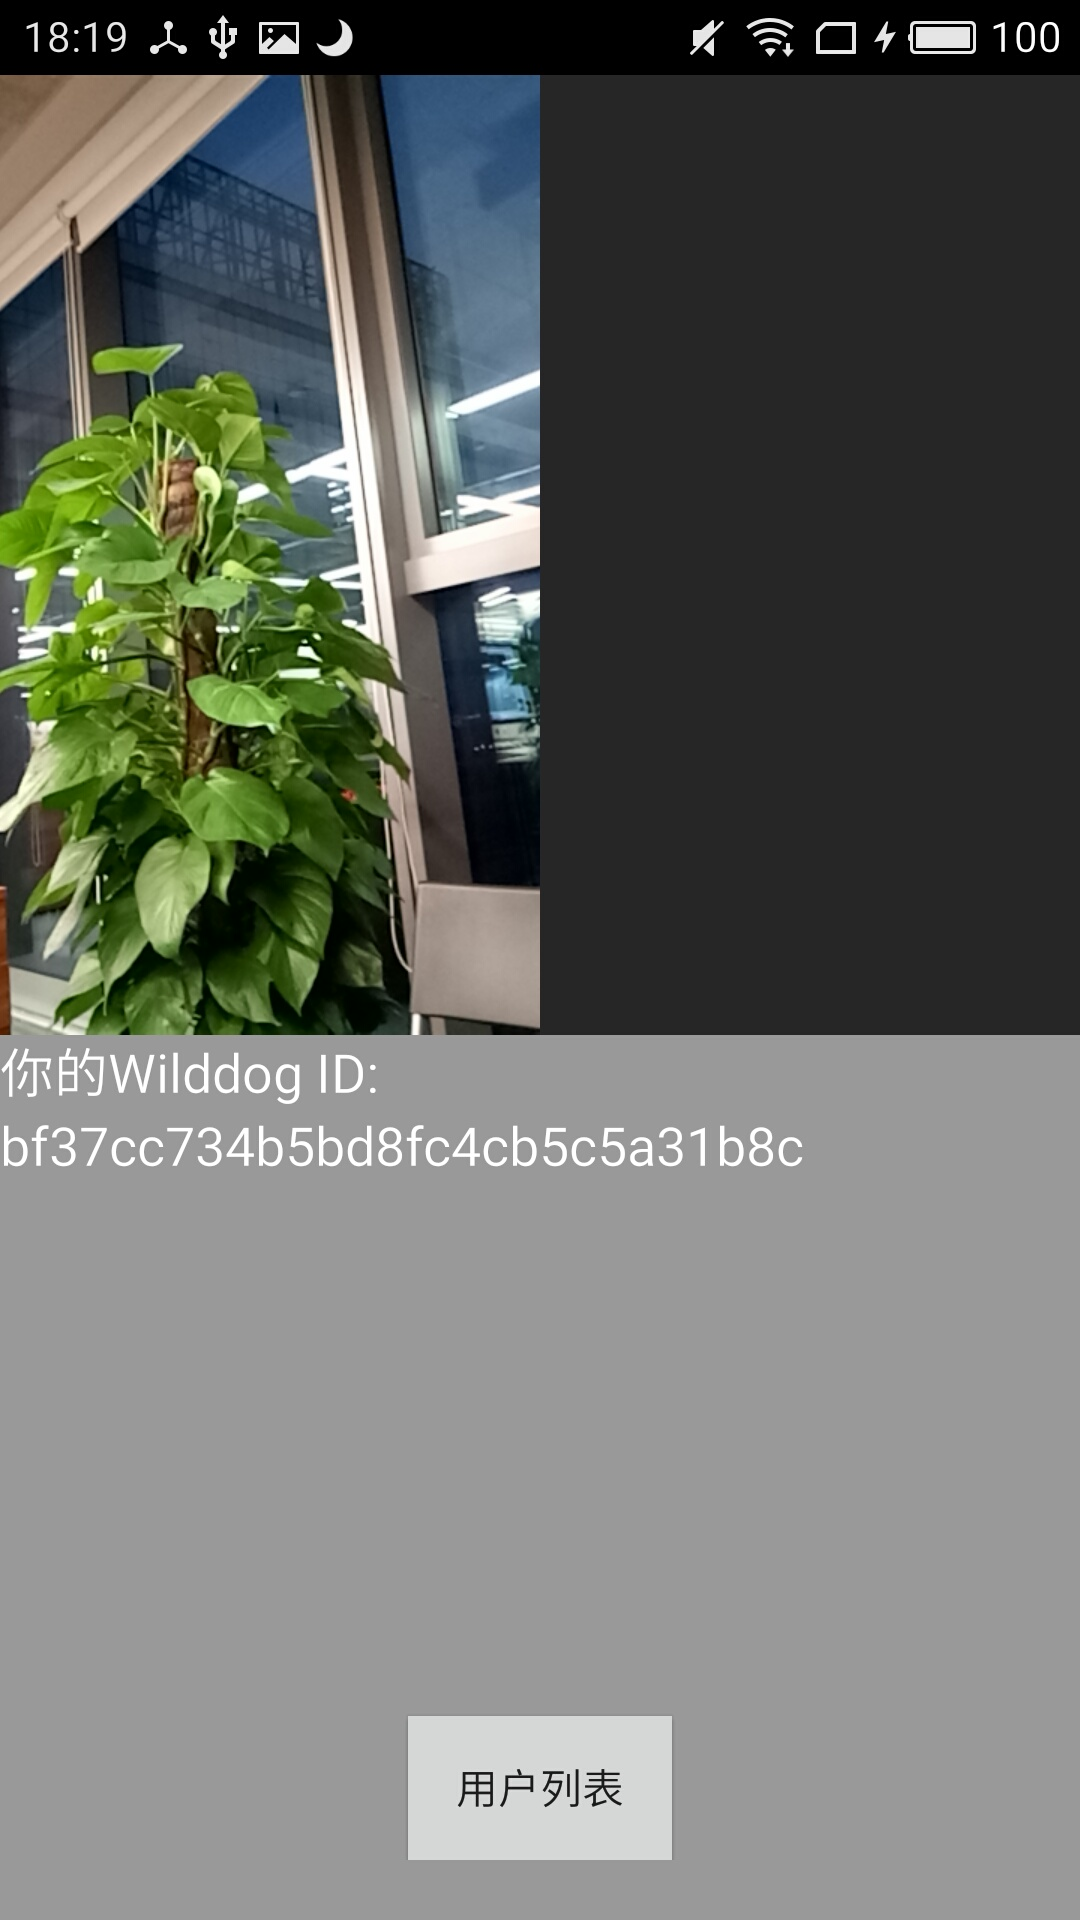
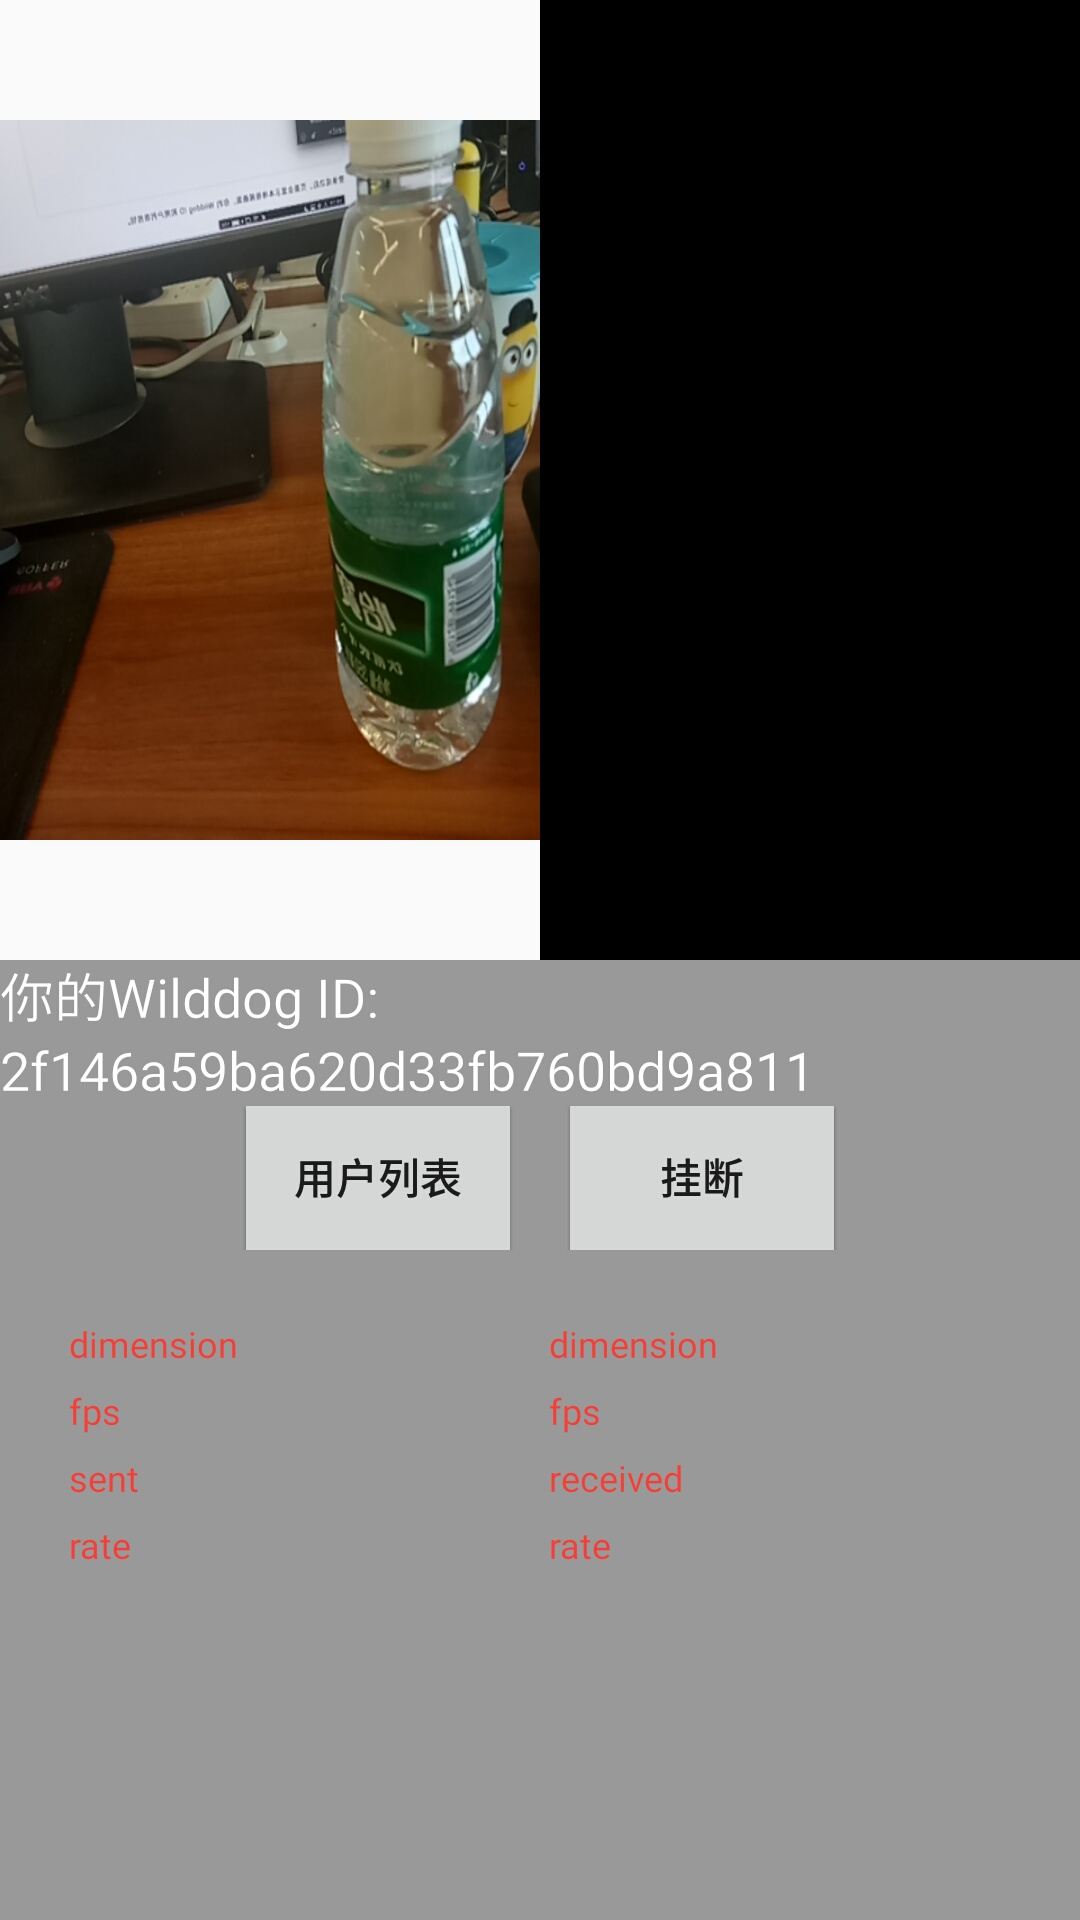
修改视频通话文档-Android-快速入门

diff --git a/source/conversation/Android/quickstart.md b/source/conversation/Android/quickstart.md
@@ -8,7 +8,7 @@ title: 快速入门
     <ul>
         <li> Android Studio 1.5 以上版本 </li>
         <li> JDK 7.0 及以上版本 </li>
-        <li> Android 手机系统 4.1 以上版本， 即 Android SDK 16 以上版本 </li>
+        <li> Android 手机系统 4.4 以上版本， 即 Android SDK 19 以上版本 </li>
     </ul>
 </div>
 
@@ -40,32 +40,38 @@ Android 快速入门是使用 Android Studio 创建的 Android 工程，使用 `
   使用 Android Studio 导入安卓项目时，可能会在 Gradle build 时卡顿在 Building gradle project info 界面上，原因及解决方案请<a href='https://github.com/WildDogTeam/wilddog-doc2/blob/master/Android%20Studio%20Gradle%20%E9%85%8D%E7%BD%AE%E8%A7%A3%E5%86%B3%E6%96%B9%E6%A1%88.md'> 参考该文档 </a>。
 </blockquote>
 
+## 5. 配置应用APPID
 
-## 5. 运行快速入门
+快速入门Constants中的SYNC_APPID如下图所示
 
-连接安卓手机（4.1 以上版本），运行快速入门。
+<img src='/images/video_quickstart_android_syncappid.jpg' alt="vvideo_quickstart_android_syncappid">
 
-## 6. 登录快速入门
-
-快速入门运行成功后，输入`VideoAppID`。
-
-<img src='/images/video_quickstart_android_login.jpg' alt="video_quickstart_android_login" width="300" >
-
-`VideoAppID`为下图所示，然后点击匿名登录。
+快速入门Constants中的VIDEO_APPID如下图所示
 
 <img src='/images/video_quickstart_videoappid.png' alt="video_quickstart_videoappid">
 
-登录成功后，页面会显示本地视频画面、你的 Wilddog ID 和用户列表按钮。
+
+## 6. 运行快速入门
+
+连接安卓手机（4.4 以上版本），运行快速入门。
+
+## 7. 登录快速入门
+
+快速入门运行成功后，点击匿名登录。
+
+<img src='/images/video_quickstart_android_login.jpg' alt="video_quickstart_android_login" width="300" >
+
+登录成功后，页面会显示本地视频画面、你的 Wilddog ID、用户列表按钮和挂断按钮。
 
 <img src='/images/video_quickstart_android_mainUI.jpg' alt="video_quickstart_createApp" width="300" >
 
-## 7. 邀请他人加入
+## 8. 邀请他人加入
 
 在其他安卓手机上使用同一个`VideoAppID` 匿名登录，然后点击用户列表按钮，点击邀请按钮邀请对方加入视频通话。
 
 <img src='/images/video_quickstart_android_userList.jpg' alt="video_quickstart_android_userList" width="300" >
 
-## 8. 接受邀请
+## 9. 接受邀请
 
 被邀请人会受到邀请提示，点击确认加入，视频通话建立。
 
